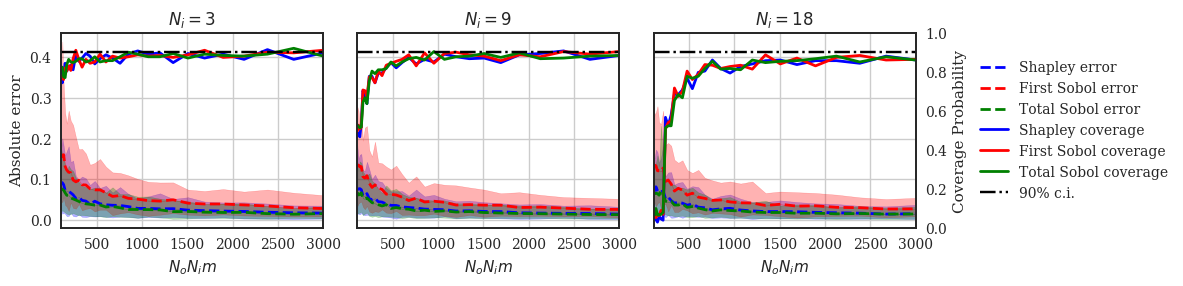
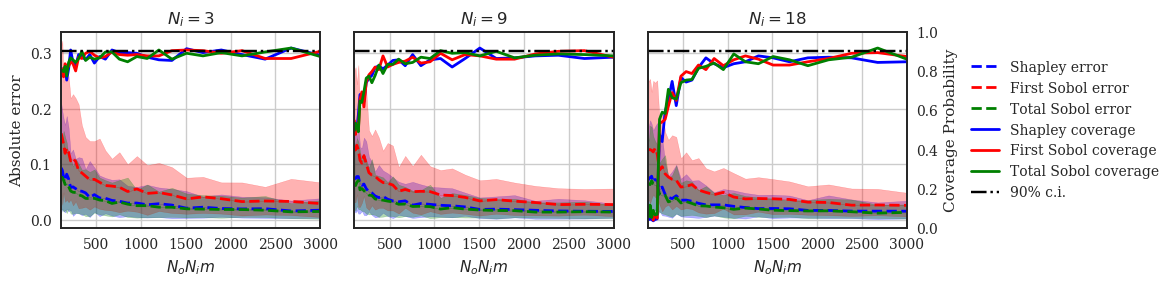
Results exact again

diff --git a/examples/section5/plot_error_cover.py b/examples/section5/plot_error_cover.py
@@ -32,7 +32,7 @@ true_results = {
 
 # In[12]:
 
-method = 'random'
+method = 'exact'
 n_var = 10000
 n_boot = 500
 n_run = 100
@@ -43,7 +43,7 @@ all_n_axes = [3, 9, 18]
 all_n_axes = np.asarray(all_n_axes)
 n_n_axes = len(all_n_axes)
 
-name_ticks = 'm'
+name_ticks = 'N_o'
 n_n_ticks = 30
 min_n_ticks = 108
 max_n_ticks = 3000
